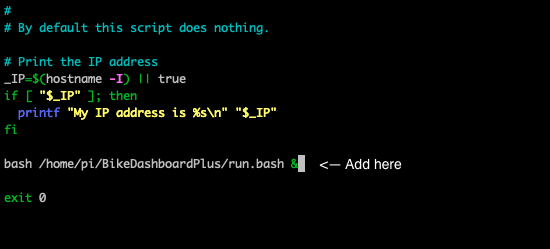
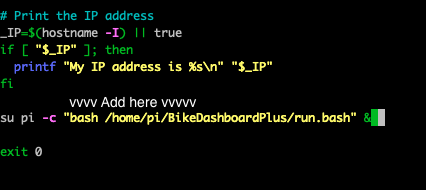
update rc.local docs

diff --git a/docs/pages/make_yourself.md b/docs/pages/make_yourself.md
@@ -98,10 +98,11 @@ Configuring the pins:
 2. Make a backup of /etc/rc.local: `sudo cp /etc/rc.local /etc/rc_backup.local`
 3. Edit /etc/rc.local
 - Type `sudo nano /etc/rc.local`
-- Scroll down. Type in `bash /path/to/BikeDashboardPlus/run.bash &` **before the** `exit 0`. You can find out the path by typing `cat ~/BikeDashboardPlus.txt`. **Make sure to add the ampersand or the Pi will not boot.** This line will make the Raspberry Pi run the program when it boots.
-- Save and exit: Press ^X (Control-X), then Y, then enter.
+- Scroll down. Type in `su pi -c "bash /path/to/BikeDashboardPlus/run.bash" &` **before the** `exit 0`. You can find out the path by typing `cat ~/BikeDashboardPlus.txt`. **Make sure to add the ampersand or the Pi will not boot.** This line will make the Raspberry Pi run the program when it boots. The `su pi -c` runs the program as the `pi` user so you would be able to access the files in the program later.
+- Save and exit: Press ^X (Control-X), then Y, then enter. 
 
-![rc_local_edit.png](../img/rc_local_edit.png)
+![rc_local_edit.png](../img/rc_local_edit.png)  
+*Don't* add the `vvvv Add here vvvv`. That is just to show where to add the line.
 
 4. Reboot the Pi: `sudo reboot`
 
